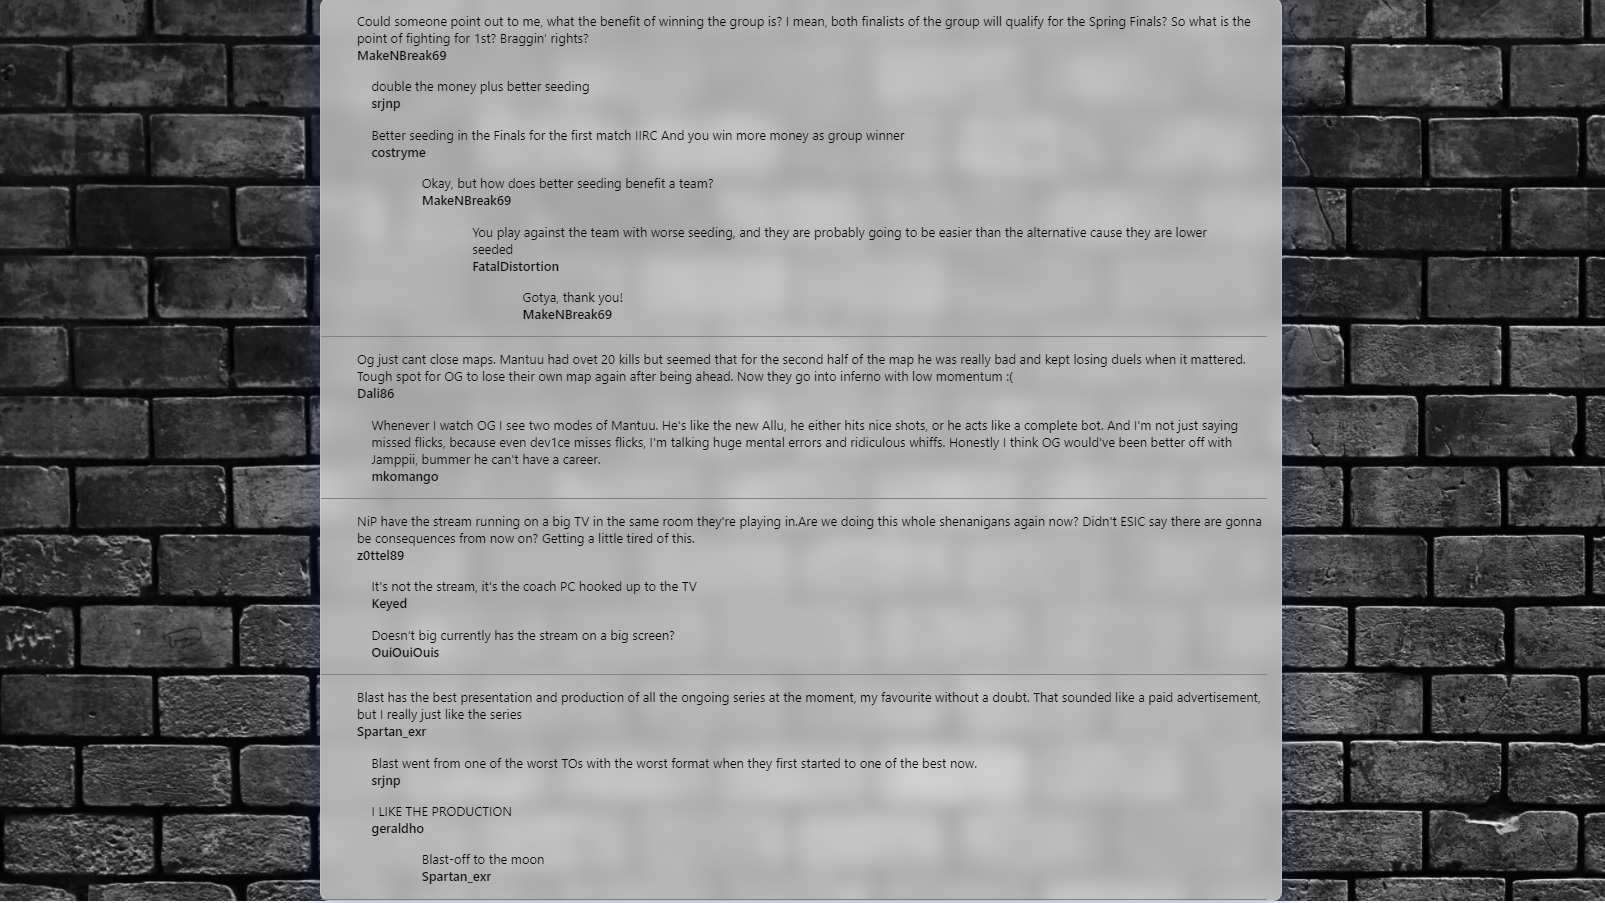
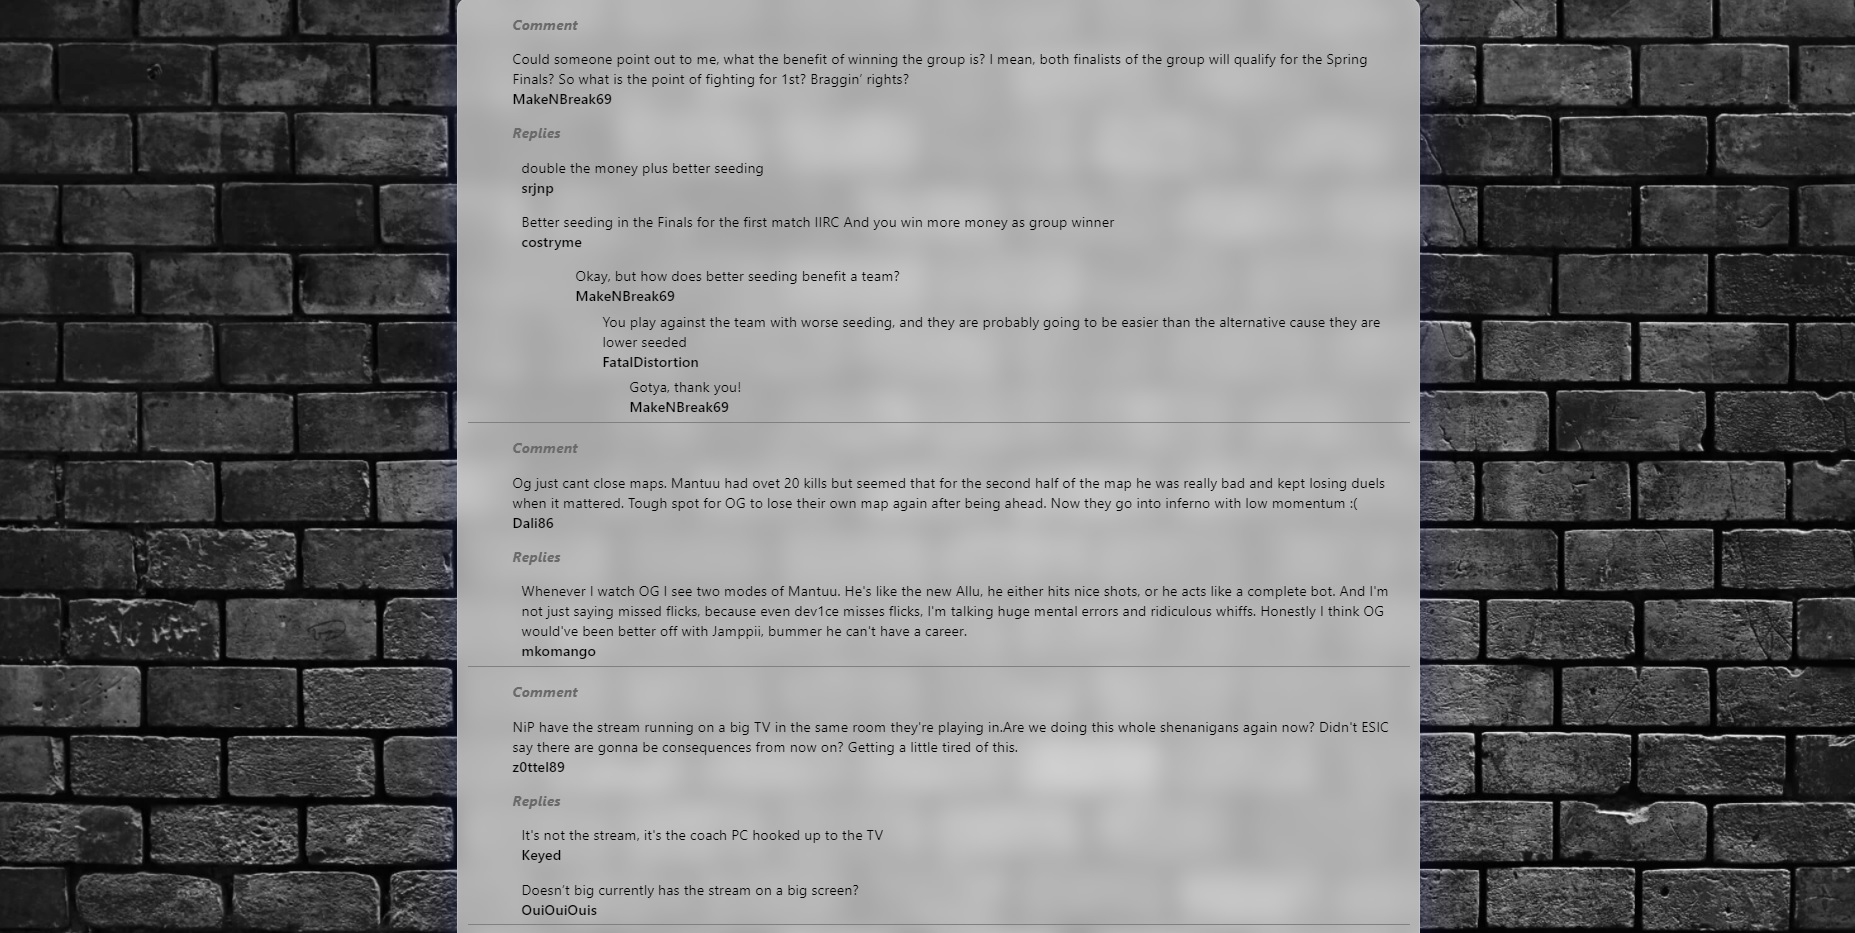
deployment & responsive
media query added in order for the comments to show correctly on mobile devices. Also the app deployed on firebase for live demo

diff --git a/src/components/Comment/styles.scss b/src/components/Comment/styles.scss
@@ -1,6 +1,6 @@
 .main {
-  max-width: 50vw;
-  font-size: 0.9rem;
+  width: 50vw;
+  font-size: 0.8rem;
   margin: auto;
   background: rgba(255, 255, 255, 0.6);
   box-shadow: 0 8px 32px 0 rgba(31, 38, 135, 0.37);
@@ -11,7 +11,14 @@
 
   .mainComments {
     border-bottom: solid 1px gray;
-    margin-right: 1rem;
+    margin: 0.5rem;
+
+    p {
+      margin-left: 2.5rem;
+      font-weight: bold;
+      font-style: italic;
+      color: #696969;
+    }
 
     ul {
       list-style: none;
@@ -26,5 +33,12 @@
         list-style: none;
       }
     }
+  }
+}
+
+@media (max-width: 62em) {
+  .main {
+    width: 85vw;
+    font-size: 0.6rem;
   }
 }

diff --git a/src/components/Comment/index.js b/src/components/Comment/index.js
@@ -20,10 +20,12 @@ function Comment() {
       {comments.map((comment) => {
         return (
           <div className="mainComments" key={comment.id}>
+            <p>Comment</p>
             <ul>
               <li className="comment"> {comment.comment}</li>
               <li className="user"> {comment.user.name}</li>
             </ul>
+            <p>Replies</p>
             {/**Check replies on main comments */}
             {comment.replies.map((reply) => {
               return <>{showReply(reply)}</>;

diff --git a/src/components/Replies/styles.scss b/src/components/Replies/styles.scss
@@ -1,14 +1,22 @@
 .replies ul {
   list-style: none;
-  margin: 1rem;
-  margin-left: 1rem;
+  margin-bottom: 0.3rem;
+  margin-left: 0.5rem;
 
   .comment {
-    margin-right: 0.8rem;
     list-style: none;
   }
   .user {
     color: rgb(27, 0, 88);
     font-weight: 600;
+  }
+
+  .nestedReplies {
+    margin-left: -1rem;
+  }
+}
+
+@media (max-width: 62em) {
+  .replies ul {
   }
 }

diff --git a/src/components/Replies/index.js b/src/components/Replies/index.js
@@ -18,7 +18,7 @@ const showReply = (comment) => {
           {/**if there is a reply, map through replies and show nested comments*/}
           {reply.replies.map((comment) => {
             return (
-              <ul>
+              <ul className="nestedReplies">
                 <li>{showReply(comment)}</li>
               </ul>
             );

diff --git a/public/index.html b/public/index.html
@@ -29,6 +29,7 @@
   <body>
     <noscript>You need to enable JavaScript to run this app.</noscript>
     <div id="root"></div>
+
     <!--
       This HTML file is a template.
       If you open it directly in the browser, you will see an empty page.
